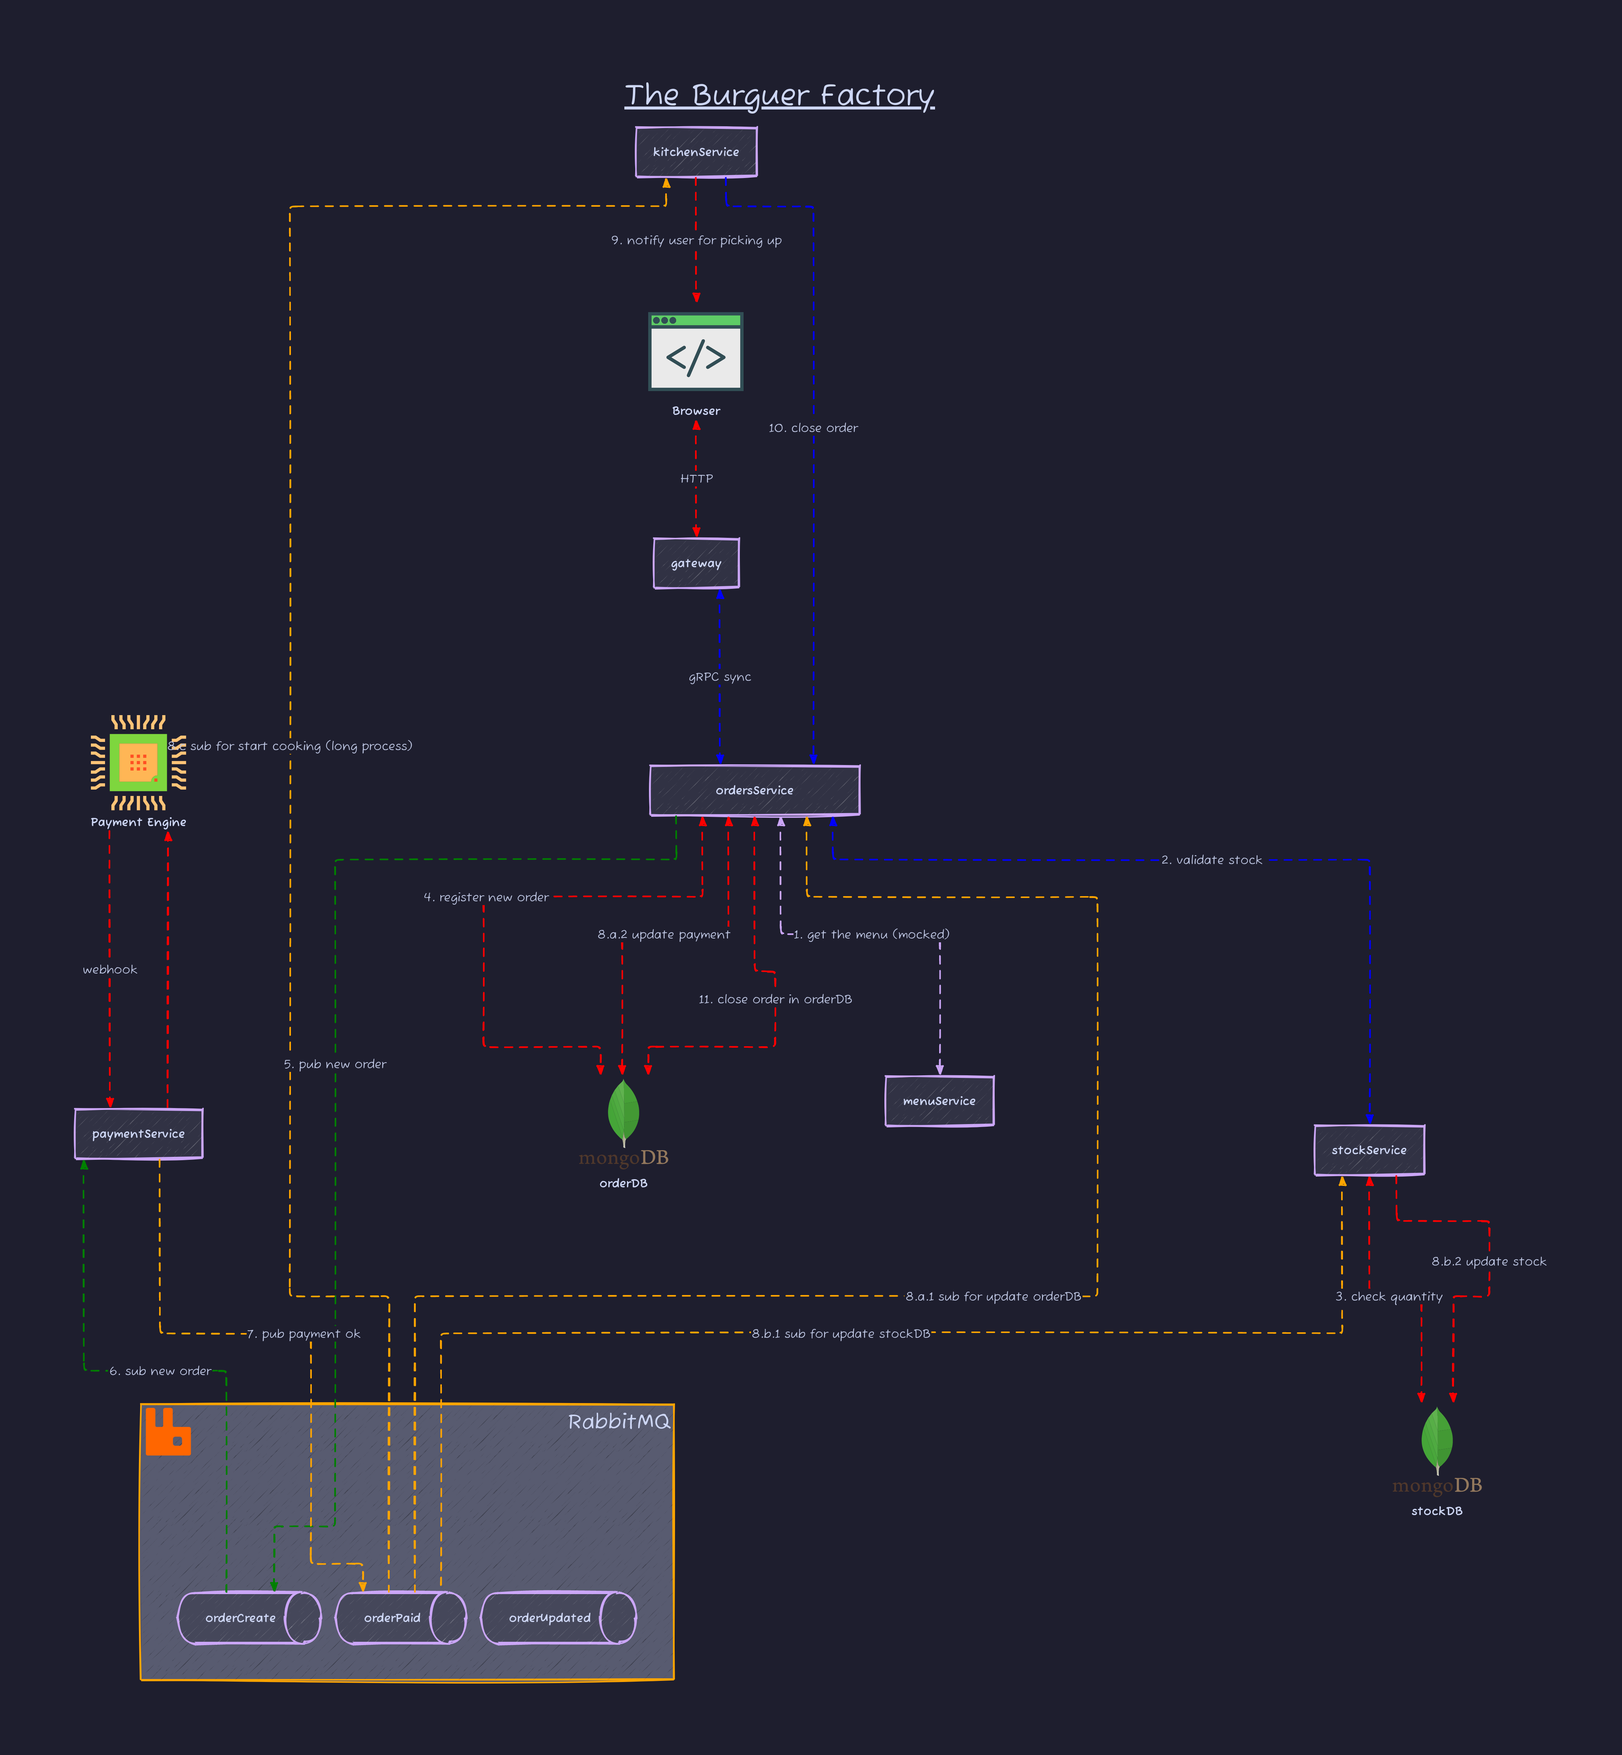
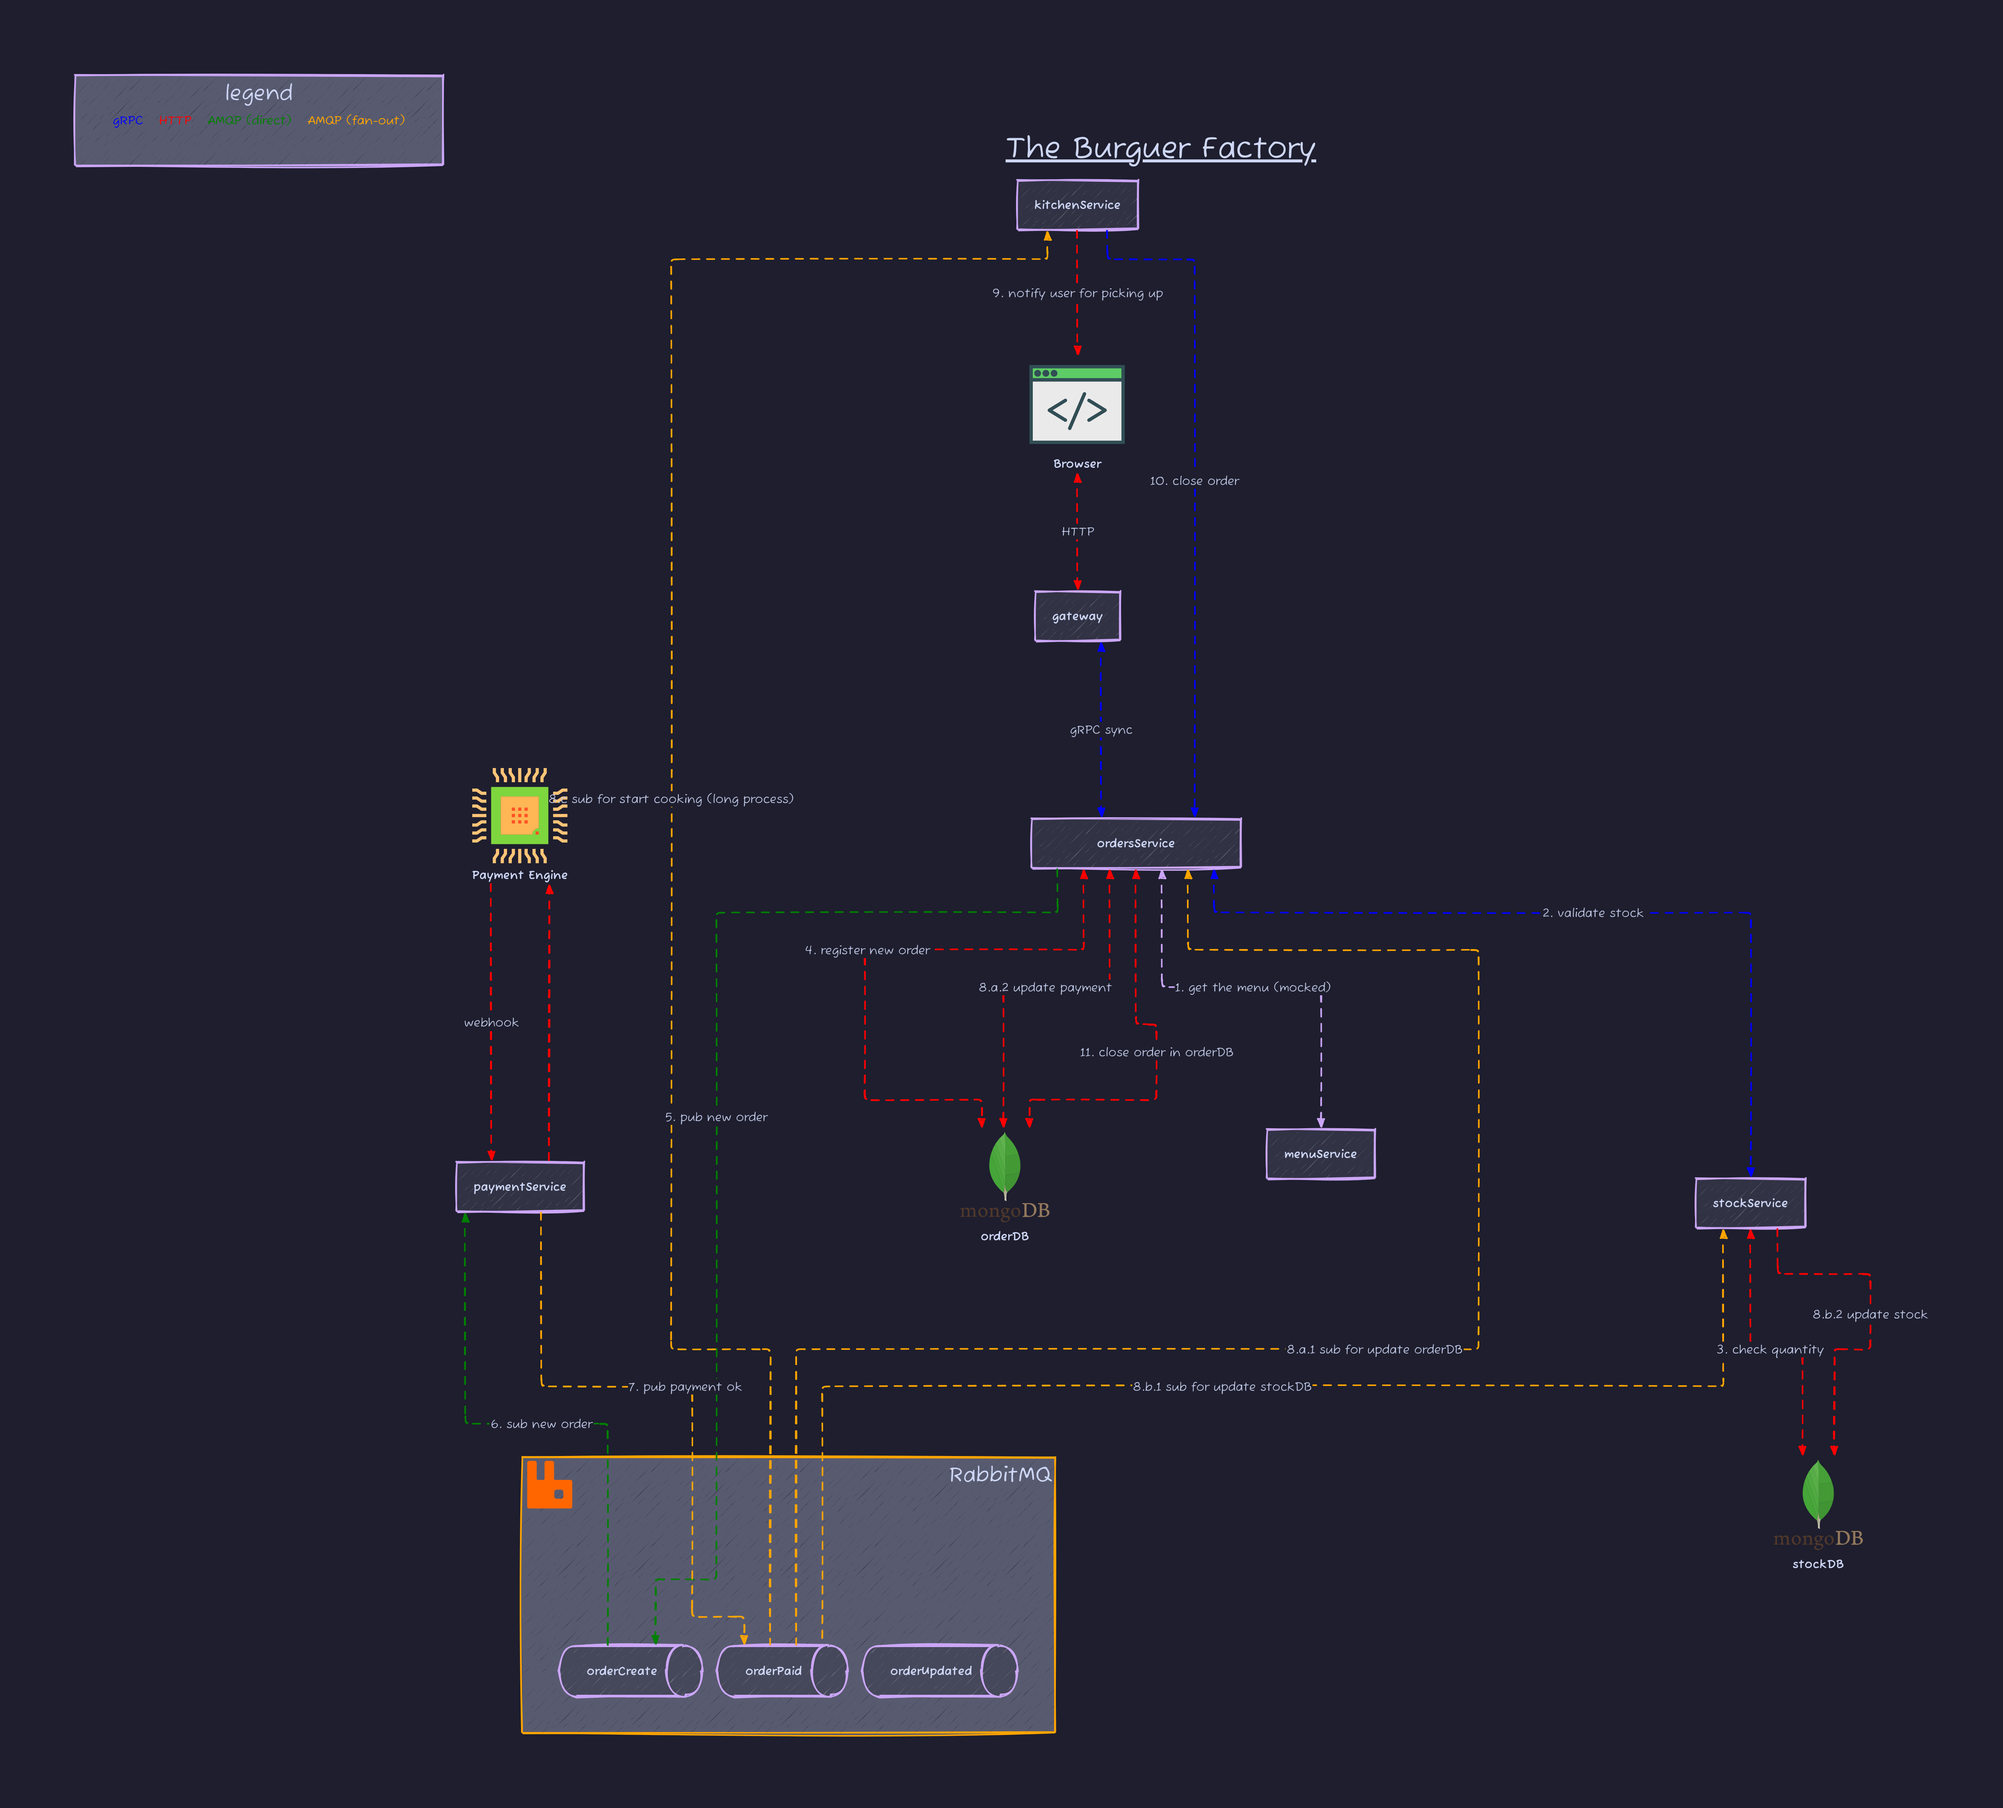
[docs] add legend and update README

diff --git a/README.md b/README.md
@@ -1,6 +1,6 @@
 # The Burguer Factory
 
-Note: This project uses multi-module workspaces, so each folder represents a microservice repository
+Note: This project uses multi-module workspaces, so each folder represents a microservice repository...
 
 e.g. Github
 
@@ -15,20 +15,9 @@ Go to [./docs/arch.png](./docs/arch.png)
 ## Installation
 
 ```bash
-# arch
-$ pacman -S nodejs npm
-
-# node
-$ npm install -D tailwindcss
-$ npm install -D daisyui@latest
-
 # go
-$ go install github.com/a-h/templ/cmd/templ@latest
 $ go install github.com/cosmtrek/air@latest
-
-# diagrams
 $ go install oss.terrastruct.com/d2@latest
-
 
 $ export PATH="$PATH:$(go env GOPATH)/bin"
 
